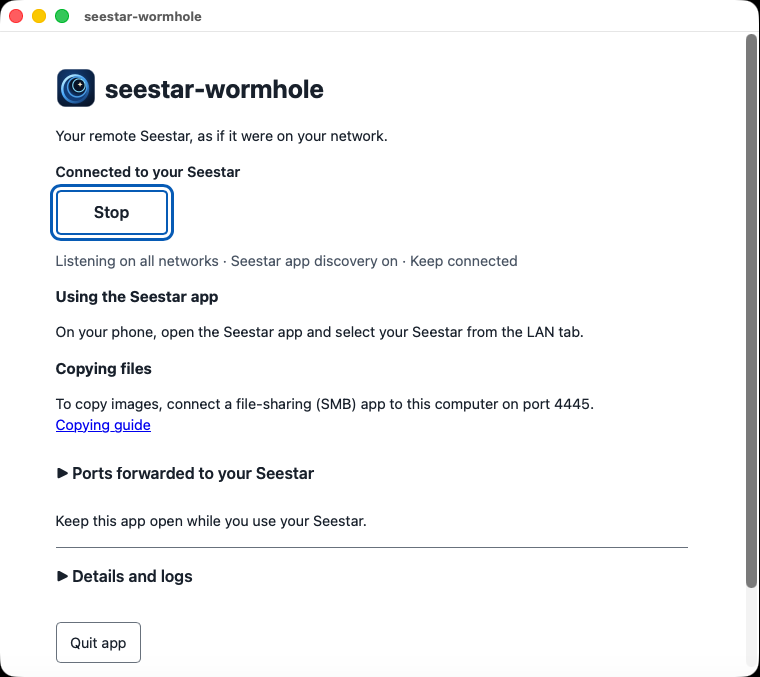
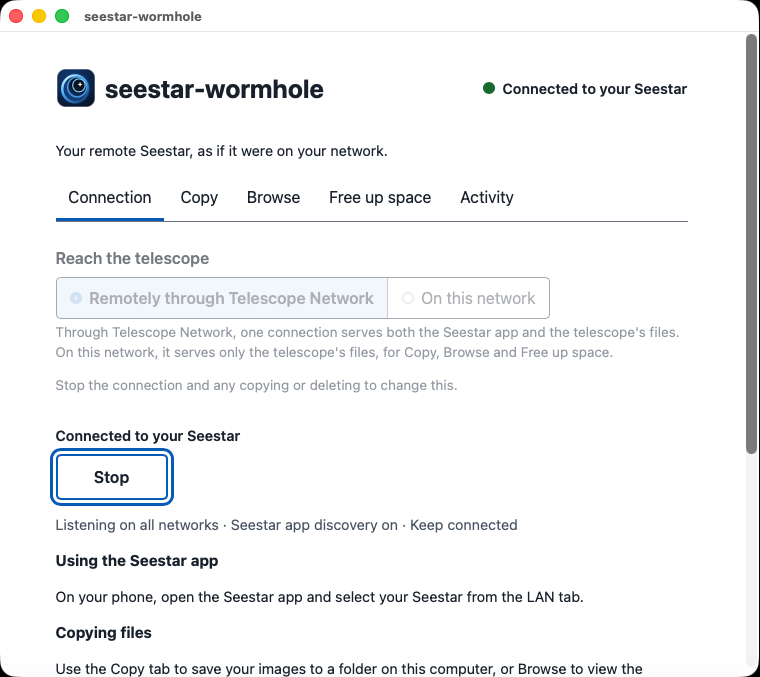
Describe the app's composition in DESIGN and replace the screenshots (#59)
DESIGN.md gains an application composition section with a diagram. It covers:
- who resolves the target, and how the route is chosen by run;
- a logical run against an SMB session;
- what blocks a route change;
- what discards previews and Browse's pool;
- the shared copy history, and which writers take the images-folder lock;
- why quitting joins the file tools before the proxy session is released.

The opening sentence now names the built-in copier beside standard SMB clients, and keeps that the forwarding layer doesn't interpret SMB.

The two README screenshots, which predated the tabs, are replaced at the same paths. They are crops of the macOS GUI-autotest captures: first-run Connection with "Reach the telescope", and connected with all five tabs.

diff --git a/DESIGN.md b/DESIGN.md
@@ -5,8 +5,11 @@ specification](https://github.com/zmerlynn/seestar-spec/blob/v1/spec/00-overview
 describes its sources and their limitations. The composed proxy implements the cloud-to-tunnel
 runtime and [internal stream interface](#internal-stream-interface).
 Tested devices, phones and platforms are listed in [status](docs/status.md);
-they do not establish complete interoperability. External downloads use standard SMB clients over a proxy listener;
-the app's own file tools run an SMB client over a session channel to port 445. The proxy does not interpret SMB.
+they do not establish complete interoperability. Files come off the telescope's SMB share by two routes: a
+standard SMB client through a proxy listener, or the built-in copier. The copier runs its own SMB client: in the app,
+over a session channel to device port 445 or over TCP on this network; in `seestar-wormhole-cli`'s file commands, at
+the endpoint they are given. The forwarding layer carries SMB bytes without interpreting them. See
+[application composition](#application-composition).
 
 ## Layering and ownership
 
@@ -50,6 +53,63 @@ workers, replaces timers and joins cleanup before replacement. `SecureDTLS`
 owns the maintained library's handshake deadline and authenticated
 profile check. Independent crypto/interop and loss/MTU tests exercise that edge.
 [No fallback to plaintext is permitted.](https://github.com/zmerlynn/seestar-spec/blob/v1/spec/transport/rdt/session.md#secure-channel)
+
+## Application composition
+
+The app is `internal/ui`: one process per state folder, holding `ui.lock`, serving the page and its token on a
+loopback HTTP server. It owns the account run and the copy `Mount` (`internal/copy/app`), which serves the Copy,
+Browse and Free up space tabs under `/copy/api/` and `/browse/`. The copy engine is described in the
+[copy packages guide](docs/development/copy.md#architecture).
+
+```text
+internal/ui server (page, token, config.json, gui.log)
+ |- controller: Connect/Stop, one numbered run --> proxy.Session (cloud, tunnel)
+ |    '- attachments: the run's channels to device port 445 <-- attach/detach
+ |- copyTarget: saved route -> Target{Endpoint, Device, Run}
+ '- copy Mount (copy.json), admit lock
+      |- Copy: copying loop, one SMB session per pass; preview
+      |- Free up space: check, then delete
+      '- Browse: session pool, one shared SMB session
+           every dial: Run 0 -> TCP to the saved address
+                       Run n -> DialPort(445) through run n
+```
+
+- **Targets.** The host resolves where the telescope is, and the Mount asks again at each start and each dial
+  (`server.copyTarget`). On this network the target is the saved address from `config.json`. Through the account it
+  is the current run's number and the telescope that run selected, and only while the run is armed and attached; the
+  copier never starts or holds a cloud session itself. The dial hooks choose the transport from the target's `Run`,
+  never from its endpoint text.
+- **Runs and SMB sessions.** A run lasts from Connect to the end of that run; each Connect numbers a new one. The
+  proxy may release an idle session and open it again inside one run; a file tool's dial is what opens a dormant
+  one. Each dial opens one connection, a tunnel channel through the account, and one SMB session on it: a pass of
+  copying, a preview, a Free up space check and a delete each dial their own, and Browse shares one pooled session,
+  closed after 30 seconds unused or after a connection failure. Copying follows its telescope from run to run and stops once the target is another
+  telescope. A preview, a check and a delete stay pinned to the exact target they started at, so a reconnect fails
+  them and a delete never reaches a telescope it did not check.
+- **Route changes.** Connect and saving the route on the Connection tab go through `Mount.Change`, under the Mount's
+  admission lock. It refuses while a pass of copying, a preview, or a Free up space check or delete runs, and, for a
+  change that moves the copier to another route, while copying is on, even between passes. Saving the route is also
+  refused while an account run is active, connecting or connected. Browse never blocks a change.
+- **Invalidation.** Every committed change, even one that failed partway, sends the Copy and Free up space previews
+  back to Start and replaces Browse's pool, closing the old one. Saving Copy settings does the same for what they
+  feed: a new images folder or history folder clears both previews and Browse's pool, and a new selection clears the
+  Copy preview and the pool. Starting copying and clearing the history discard the Copy preview.
+- **Stores.** The app's state folder (the per-user config folder's `seestar-wormhole`) holds `config.json`
+  (connection and route), `copy.json` (Copy settings, which the Mount saves through the host) and `gui.log` (the
+  app's event history). A `copy.json`
+  this version cannot read turns Copy, Browse and Free up space off for the run and is never written. The copy
+  history lives in the per-user config folder's `seestar-copy`, or the history folder `copy.json` names. The app,
+  `sync`, `delete`, `find` and `browse` share it by default, so they share one history and one history lock per
+  images folder. `--profile default` reads `copy.json` and `config.json` to fill a command's flags, and writes or
+  locks nothing. Each copying pass (`sync` or the app's) and Browse's Save into the images folder hold its folder
+  lock, `.seestar-wormhole.lock` at its top. A real `delete` takes it too, except when the folder is missing or on a
+  read-only file system; a dry run or an `--ignore-state` delete takes none.
+- **Shutdown.** On quit the app first stops the Mount: it closes Browse's pool, then stops and joins copying, the
+  preview and Free up space. Only then does it stop the run, whose detach closes and joins every channel the file
+  tools still hold before the proxy session is closed and released. The file tools reach the telescope through that
+  session, so joining them first means none holds or opens a channel on a session being released. The app's
+  context is detached from the signal context for the same reason: a signal reaches the proxy only through this
+  order.
 
 ## Tunnel contract
 
